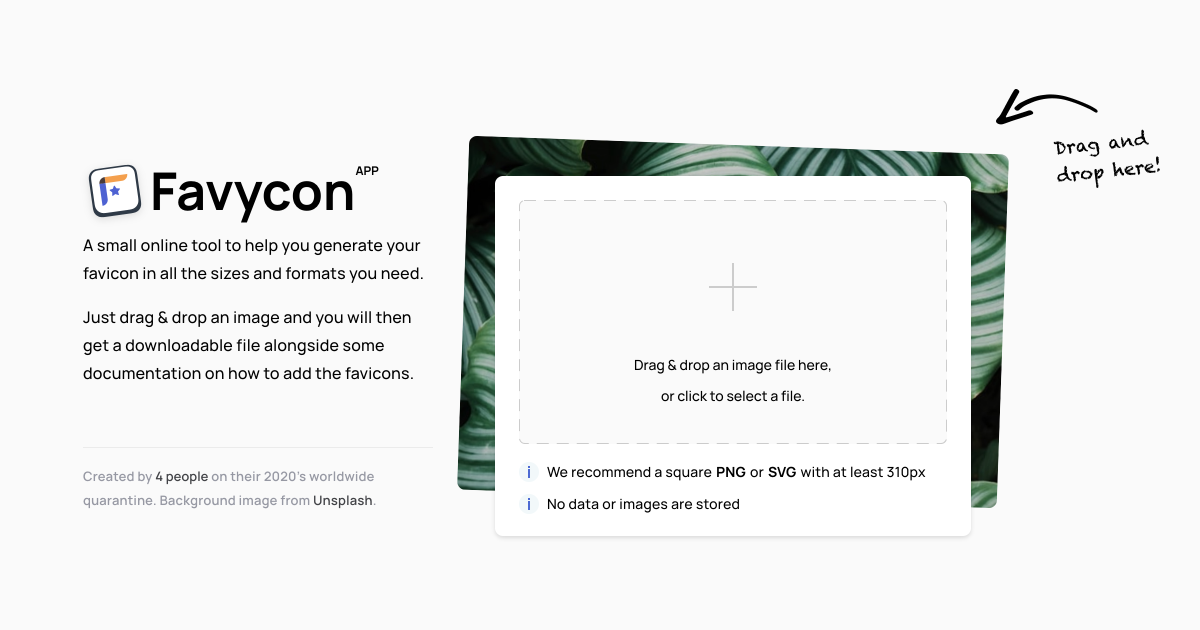
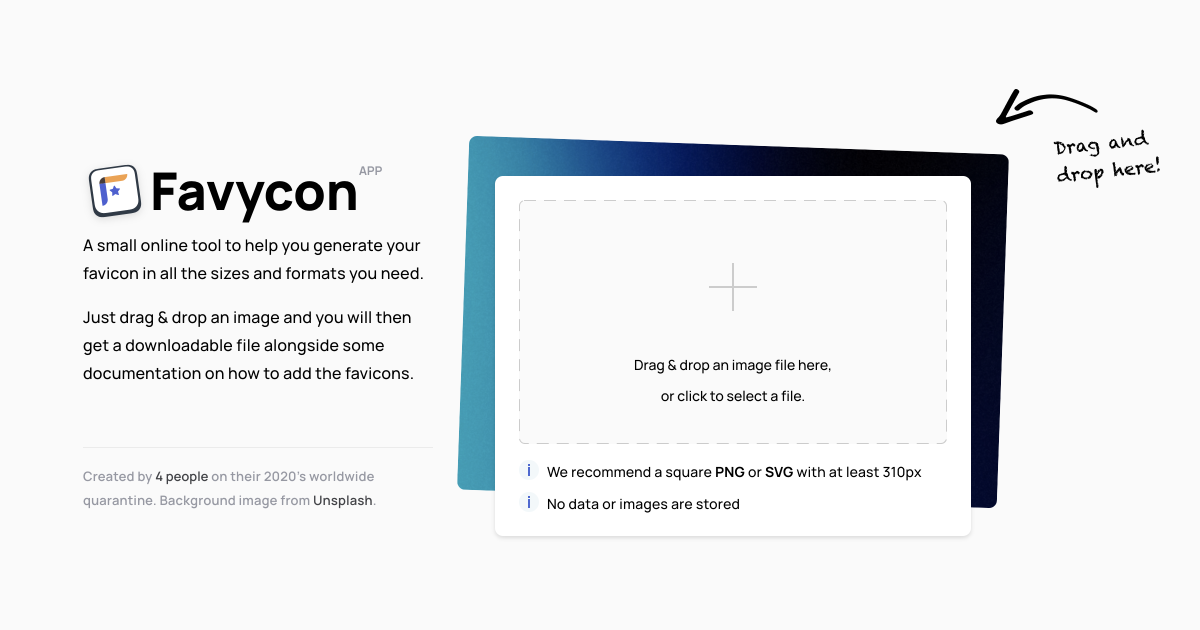
feat(responsive): update sharable image

diff --git a/components/seo/index.tsx b/components/seo/index.tsx
@@ -33,7 +33,7 @@ const SEO = ({ title, description }: SEOProps) => (
 		<meta property="og:type" content="website" />
 		<meta property="og:site_name" content={title} />
 		<meta property="og:url" content="https://favycon.app" />
-		<meta property="og:image" content="https://favycon.app/share.png?v2" />
+		<meta property="og:image" content="https://favycon.app/share.png?v3" />
 		<meta property="og:image:type" content="image/png" />
 		<meta property="og:image:width" content="1200" />
 		<meta property="og:image:height" content="630" />
